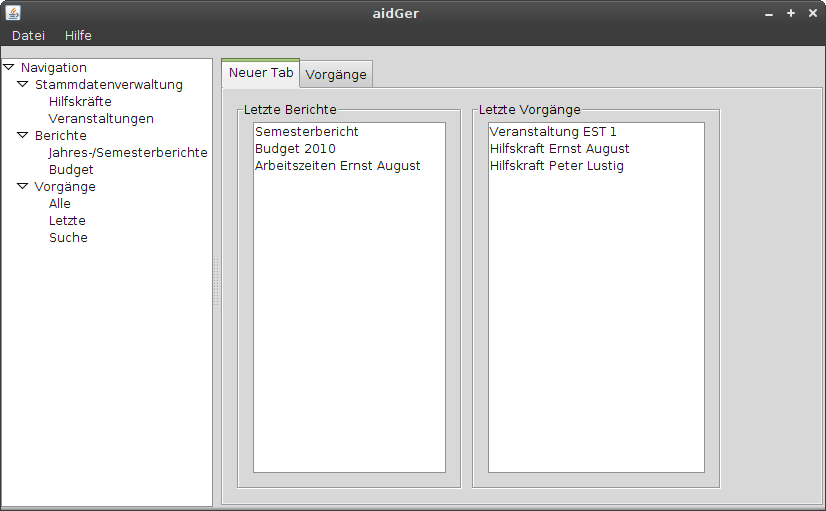
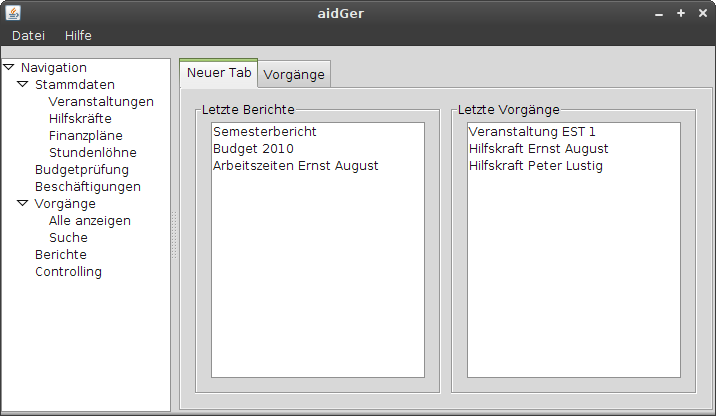
Add main view for data entry etc.

Changed region(s): [[0.0, 0.0, 1.0, 1.0], [0.9525, 0.0, 1.0, 0.0312]]

diff --git a/docs/Specification.tex b/docs/Specification.tex
@@ -610,7 +610,35 @@ bleibt dabei vollständig erhalten, gerät jedoch in den Hintergrund
 
 %TODO: Alle Navigationselemente aufzählen
 
+In der folgenden Gliederung der Navigationsleiste sind die obersten Elemente die
+Hauptelemente und darunter folgende Sublisten die dementsprechenden Menüs die 
+aufklappen sobald man auf das Hauptelement klickt. Nur beim Auswählen der Unterpunkte
+wird der Inhalt des Inhaltsbereiches verändert.
 
+\begin{itemize}
+    
+    \item Stammdatenverwaltung
+    \begin{itemize}
+        \item Veranstaltungen
+        \item Hilfskräfte
+        \item Finanzpläne
+        \item Stundenlöhne
+    \end{itemize}
+    
+    \item Budgetprüfung
+    
+    \item Beschäftigungen
+
+    \item Vorgänge
+    \begin{itemize}
+        \item Alle anzeigen
+        \item Nach Vorgang suchen
+    \end{itemize}
+    
+    \item Reports
+    
+    \item Controlling
+\end{itemize}
 
 \section{Menüleiste\label{sec:Men=0000FCleiste}}
 
@@ -622,8 +650,102 @@ In der folgenden Gliederung dieser Menüleiste sind die obersten
 Elemente die Hauptelemente und darunter folgende Sublisten die dementsprechenden
 Menüs die aufklappen sobald man auf das Hauptelement klickt.
 
+\begin{itemize}	
+    \item Datei	
+    \begin{itemize}	
+        \item Drucken
+        \item Einstellungen
+        \item $----------$
+        \item Beenden
+    \end{itemize}
+    	
+    \item Hilfe
+    \begin{itemize}
+        \item Hilfe
+        \item Über
+    \end{itemize}
+\end{itemize}
+
+\section{Stammdatenverwaltung}
+
+Die GUI für die Stammdatenverwaltung wird hier am Beispiel der Veranstaltungen
+gezeigt. Für die anderen Stammdaten ist diese ähnlich bis gleich. Hauptunterschied
+sind dabei die dort dargestellten Daten und Formulare.
+
+\subsection{Hauptanzeige}
+
+\includegraphics{MockupVeranstaltungen.png}
+
+Nach einem Klick auf Stammdatenverwaltung $\rightarrow$ Veranstaltungen wird die
+Hauptansicht der Stammdatenverwaltung angezeigt. Diese besteht aus einer Toolbar
+am oberen Rand und einer tabellarischen Darstellung aller vorhandenen Daten. 
+Zu Beginn ist die Tabelle auf einige wichtige Spalten beschränkt. Über ein 
+Kontextmenü können jedoch alle verfügbaren Daten in der Tabelle angezeigt werden
+um einen breiten Bildschirm voll auszunützen. \\
+In der Toolbar befinden sich die Buttons ``Anzeigen'' zum Anzeigen der Details
+des momentan ausgewählten Tabelleneintrags, ``Bearbeiten'' um die ausgewählte 
+Veranstaltung zu verändern, ``Hinzufügen'' um eine neue Veranstaltung
+hinzuzufügen, ``Entfernen'' um die ausgewählte Veranstaltung zu entfernen und 
+``Vorgänge'' um direkt zu den Vorgängen der ausgewählten Veranstaltung zu springen.
+Um einen Tabelleneintrag anzuzeigen kann auch ein Doppelklick auf ihn ausgeführt
+werden. Per Entf-Taste kann ein Eintrag zudem entfernt werden.
+
+\subsection{Anzeigen}
+
+\includegraphics{MockupVeranstaltungenAnzeige.png}
+
+Hier werden alle vorhandenen Daten zum ausgewählten Datensatz angezeigt. Sollte
+beim Klick auf den ``Anzeigen''-Button jedoch kein Eintrag ausgewählt worden sein,
+so wird der Nutzer dadurch durch eine Fehlermeldung hingewiesen. \\
+Die Anzeige gliedert sich in zwei Abschnitte. Im Linken werden alle Daten angezeigt.
+Im Rechten wird die eingestellte Anzahl von Vorgängen (\ref{sec:Programmeinstellungen}) 
+zu diesem Datensatz angezeigt. Durch einen Doppelklick auf einen Vorgang wird 
+dieser angezeigt. \\
+Unterhalb dieser Abschnitte befinden sich noch zwei Buttons. Der ``Schließen''-Button
+dient hierbei zum Schließen des Fensters und zurückkehren zur letzten Ansicht
+und der ``Bearbeiten''-Button um die Daten zu verändern.
+
+\subsection{Bearbeiten}
+
+\includegraphics{MockupVeranstaltungenBearbeiten.png}
+
+Diese Ansicht bietet die Möglichkeit alle Daten eines Datensatzes zu verändern.
+Sollte dieser Dialog über die Hauptansicht aufgerufen werden und kein Eintrag
+selektiert sein, so wird der Nutzer durch eine Fehlermeldung darauf hingewiesen. \\
+Die Ansicht bietet eine Reihe von Eingabefeldern um die Daten zu verändern. Unter
+diesen befinden sich zwei Buttons. Der ``Speichern''-Button speichert die neuen
+Daten in der Datenbank und schließt die Ansicht, der ``Abbrechen''-Button schließt
+sie ebenfalls, jedoch ohne die Daten in der Datenbank zu speichern. \\
+Beim Speichern werden die eingetragenen Daten auf ihre Korrektheit überprüft. Sollten
+sich in einem Eingabefeld inkorrekte Daten befinden (zum Beispiel ein Name in 
+einem Datumsfeld) so wird der Nutzer darauf hingewiesen und kann die Daten erst
+speichern nachdem alle Daten korrekt sind.
+
+\subsection{Hinzufügen}
+
+Die ``Hinzufügen''-Ansicht ist prinzipiell dieselbe wie die ``Bearbeiten''-Ansicht.
+Einzigster Unterschied ist das sich hier noch keine Daten in den Eingabefeldern
+befinden und das der ``Speichern''-Button einen neuen Eintrag in der Datenbank
+anlegt.
+
+\subsection{Entfernen}
+
+Beim Löschen wird der momentan ausgewählte Eintrag in der Tabelle entfernt. Sollte
+kein Eintrag ausgewählt sein, so wird der Nutzer durch eine Fehlermeldung darauf
+hingewiesen. \\
+Bevor der Eintrag gelöscht wird, wird der Nutzer gefragt ob er diesen Vorgang wirklich
+durchführen will um das versehentliche Löschen eines Eintrags zu verhindern.
+
+\subsection{Vorgänge}
+
+Hier wird eine Liste aller Vorgänge zu dem ausgewählten Datensatz angezeigt. Sollte
+kein Datensatz ausgewählt sein, so wird der Nutzer durch eine Fehlermeldung darauf
+hingewiesen. \\
+Durch einen Doppelklick auf einen Vorgang wird dieser angezeigt.
 
 \section{Programmeinstellungen\label{sec:Programmeinstellungen}}
+
+%TODO: Einstellung für Anzahl von Vorgängen bei Anzeigen hinzufügen
 
 \begin{center}
 \includegraphics{MockupSettings}
